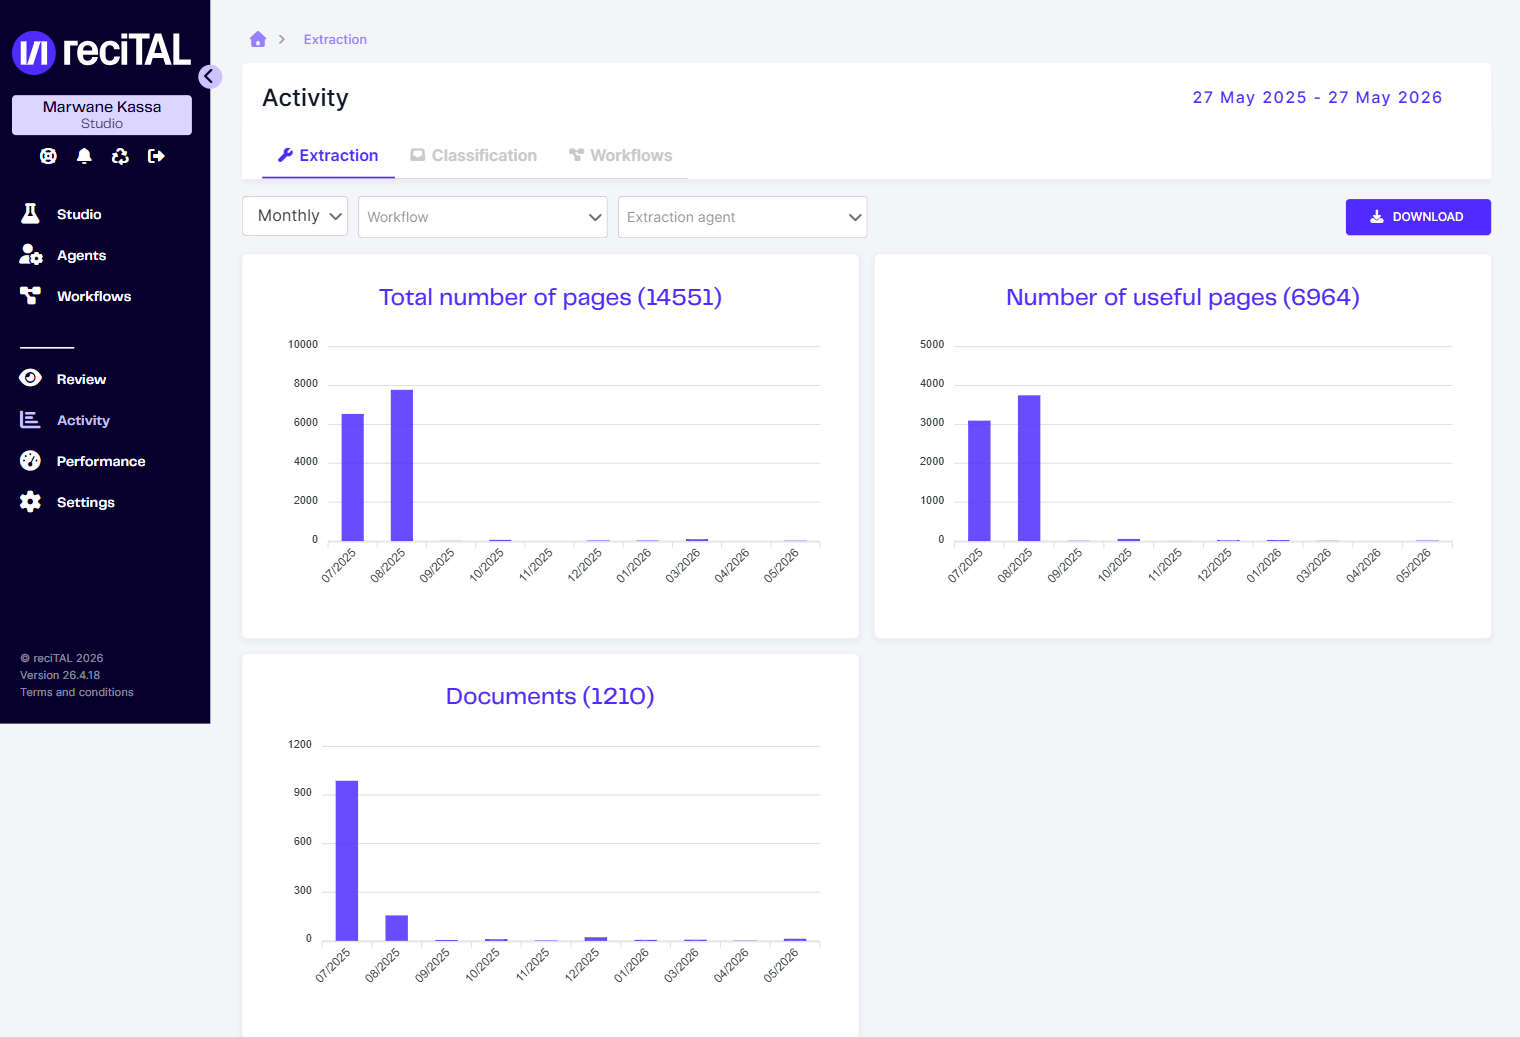
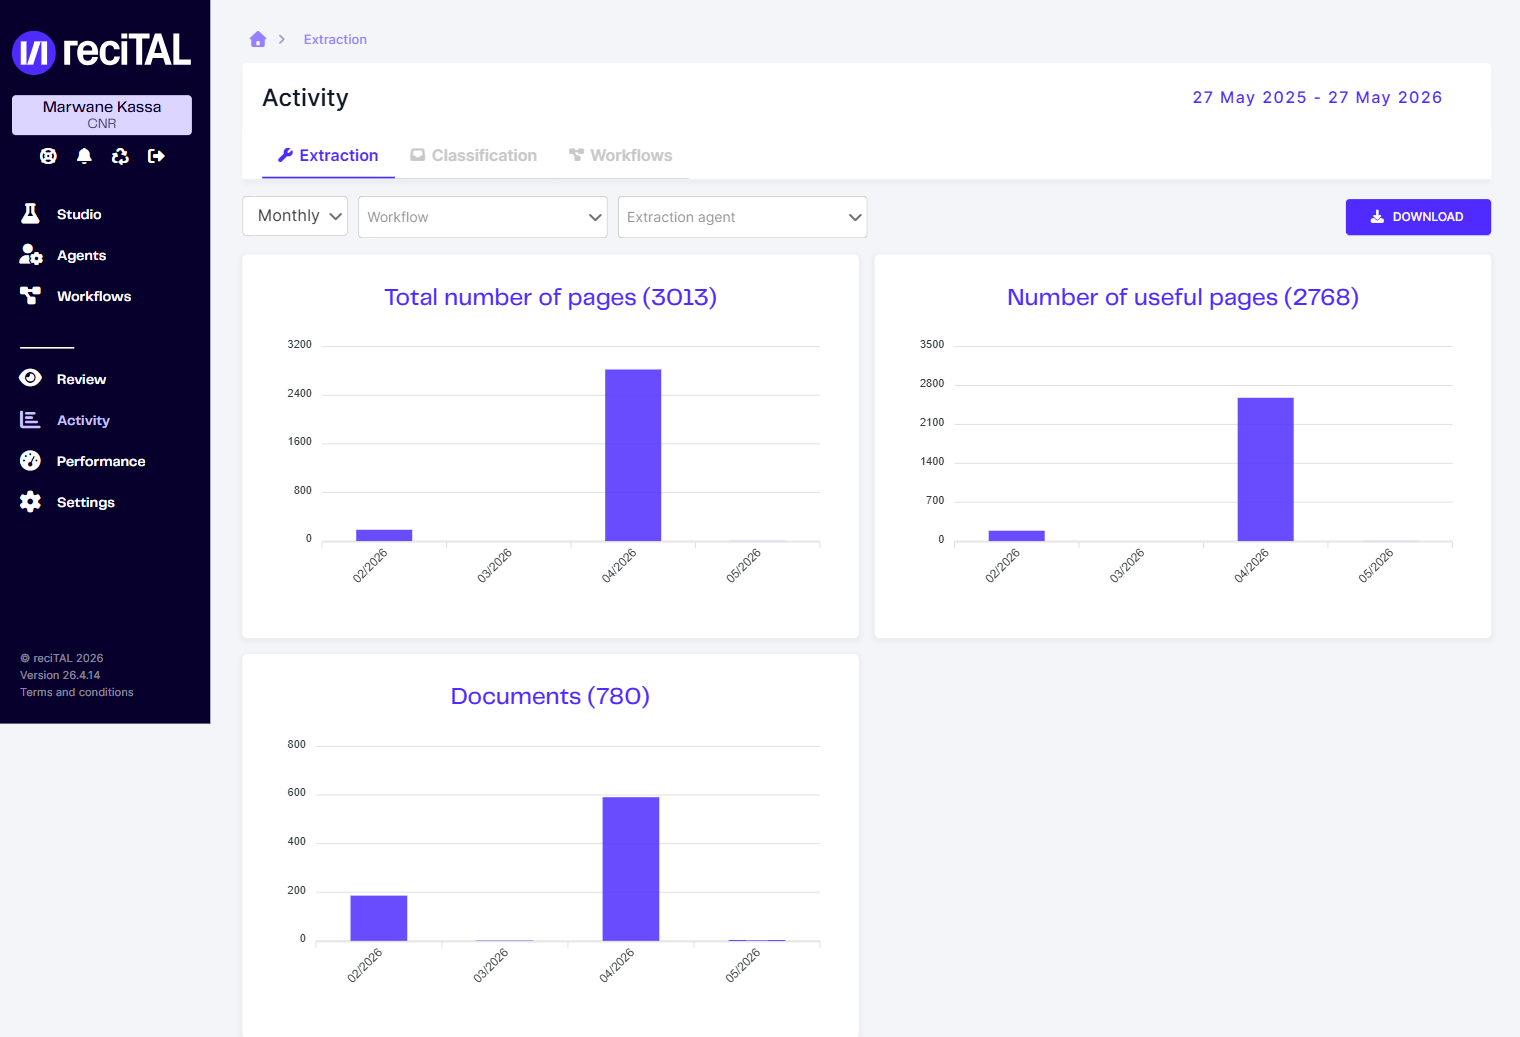
Activity: capture prod (3 métriques) + mention de la métrique Documents
Remplace la capture staging par une version prod plus représentative.
La page mentionne maintenant les 3 indicateurs réels: pages totales, pages utiles, documents.

diff --git a/production/activite.md b/production/activite.md
@@ -10,7 +10,13 @@ Dans la sidebar, cliquer sur **Activity**. Trois onglets segmentent les statisti
 - **Classification**
 - **Workflows**
 
-<figure><img src="../.gitbook/assets/production_activity_chart.png" alt="Graphes d'activité pour l'extraction sur 12 mois"><figcaption>Vue Activity &#x2014; tab Extraction. Deux histogrammes mensuels : total de pages et pages utiles.</figcaption></figure>
+<figure><img src="../.gitbook/assets/production_activity_chart.png" alt="Graphes d'activité pour l'extraction"><figcaption>Vue Activity &#x2014; tab Extraction. Trois histogrammes mensuels : pages totales, pages utiles, et documents traités.</figcaption></figure>
+
+Trois indicateurs sont affichés sur l'onglet **Extraction** :
+
+- **Total number of pages** — toutes les pages soumises aux agents d'extraction
+- **Number of useful pages** — pages effectivement annotées par le modèle (les autres sont des pages vides ou ignorées par filtrage)
+- **Documents** — nombre de documents complets traités (un document peut contenir plusieurs pages)
 
 ## Filtres et période
 
